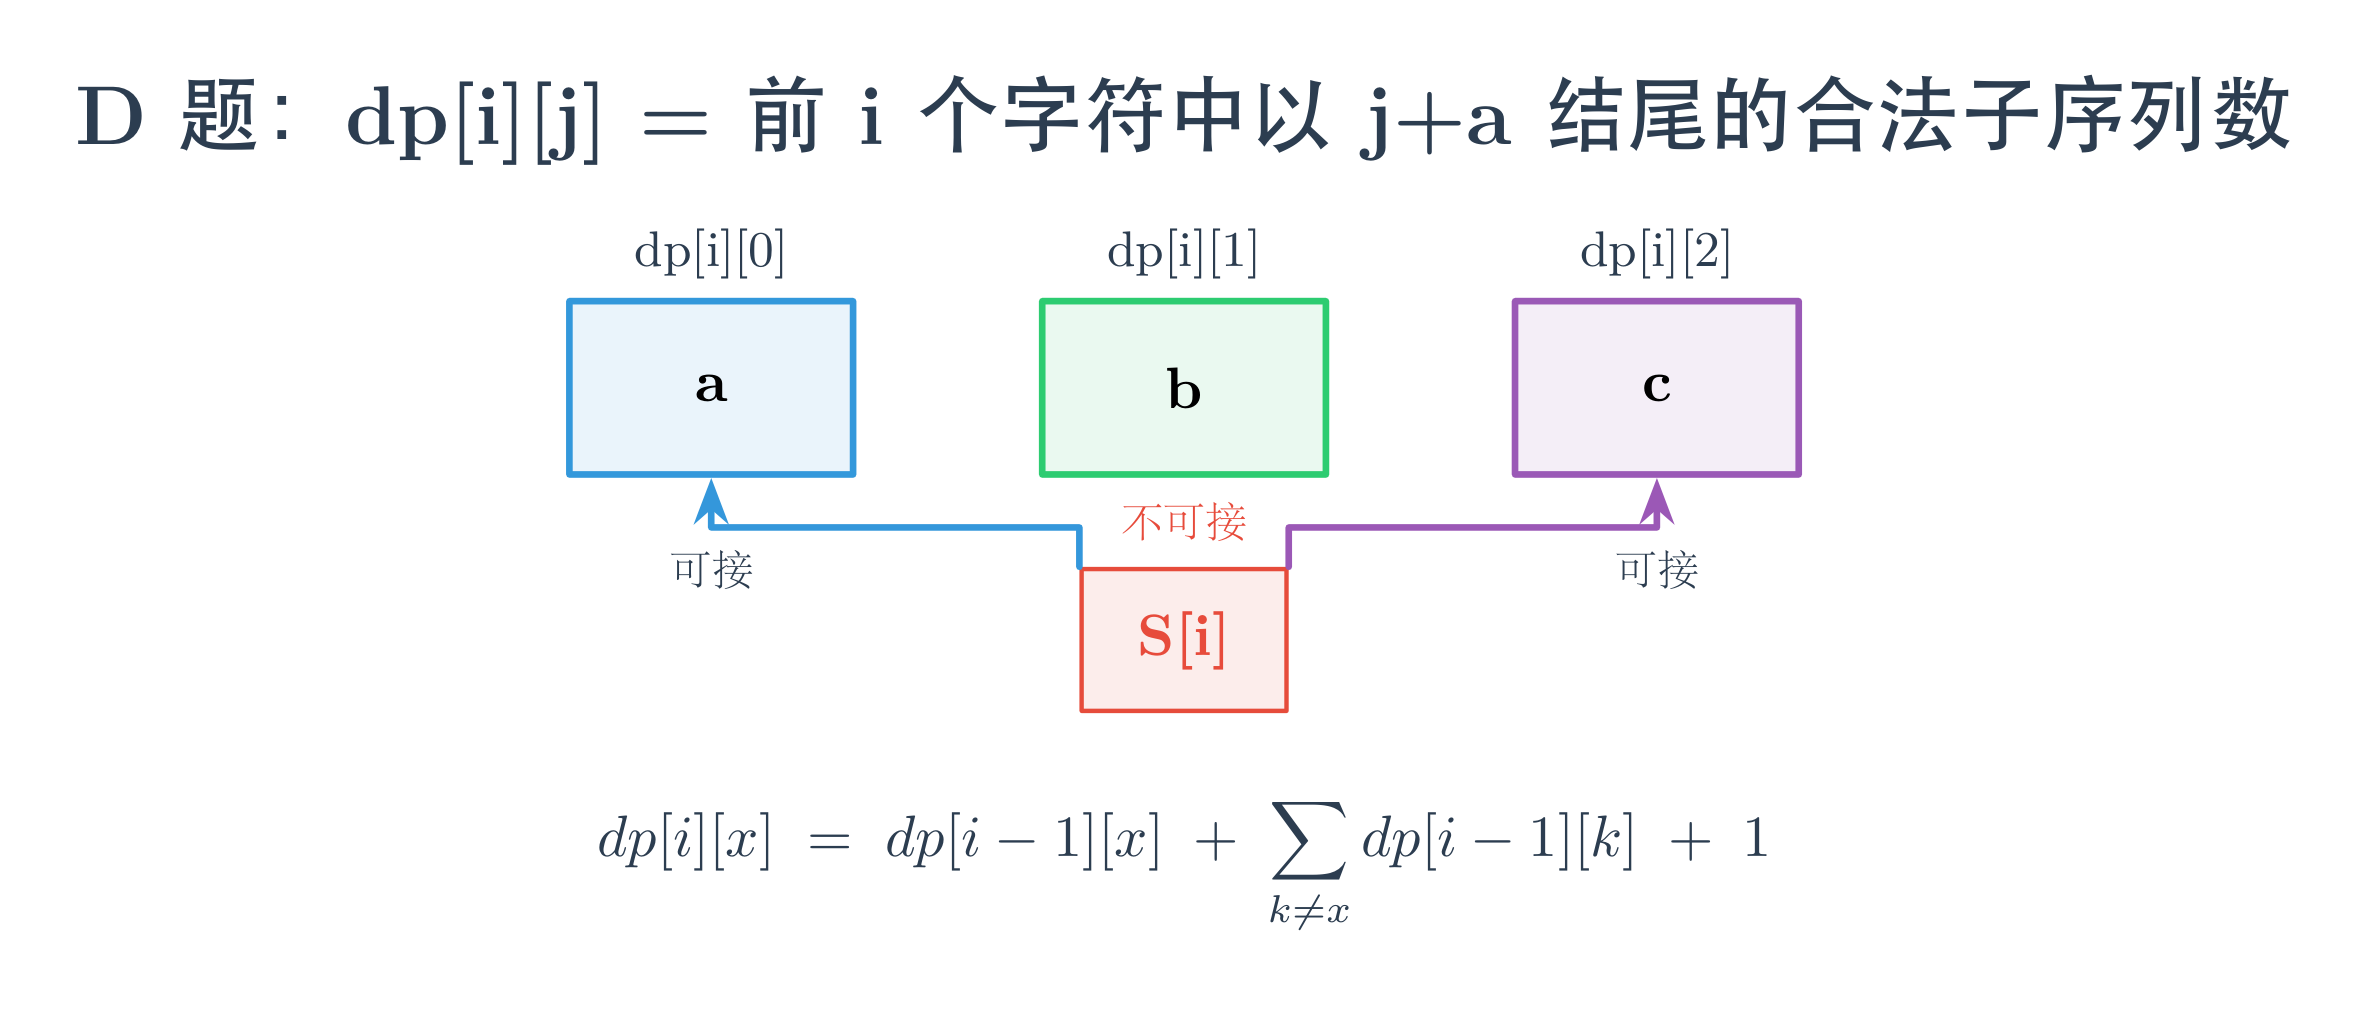
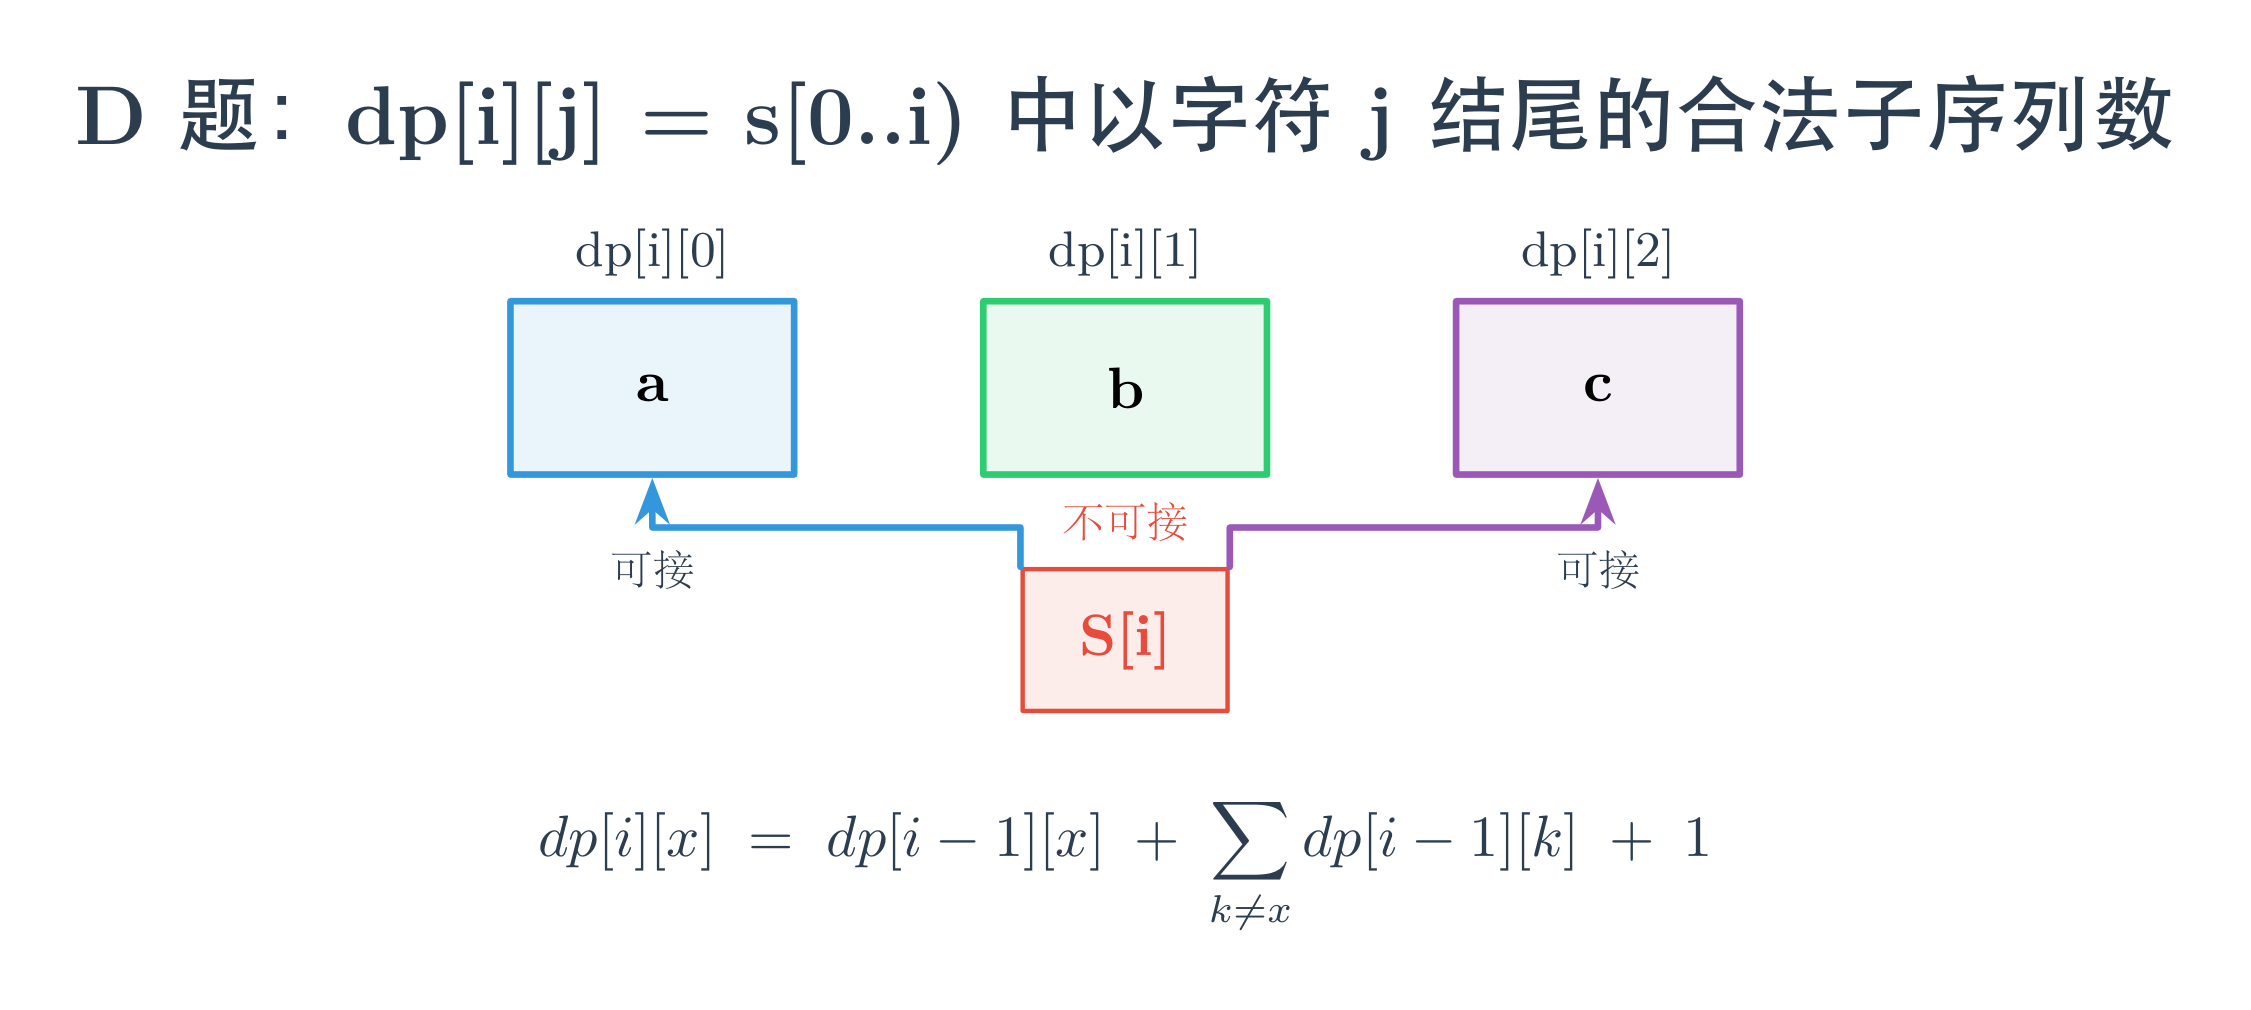
Simplify D diagram state definition using s[0..i) notation

diff --git a/ABC456/article.html b/ABC456/article.html
@@ -92,7 +92,7 @@ hr { border: none; border-top: 1px solid #e0e0e0; margin: 24px 0; }
 <h3>关键观察</h3>
 <p>子序列不要求连续，这意味着当前字符可以接在<span style="color:#0969da">前面任意一个合法子序列</span>的后面，只要最后一个字符不同。</p>
 <p>此时，我们不能再像 C 题那样只关心"上一个位置"，因为子序列的"上一个字符"可能出现在很前面。真正需要记住的信息是：<span style="color:#e74c3c">这个子序列以什么字符结尾</span>。</p>
-<p>因此定义二维状态：dp[i][j] 表示前 i 个字符中，以字符 j（0 代表 a，1 代表 b，2 代表 c）结尾的合法子序列个数。</p>
+<p>因此定义二维状态：dp[i][j] 表示 s[0..i) 中以字符 j（0 代表 a，1 代表 b，2 代表 c）结尾的合法子序列个数。</p>
 <h3>图示</h3>
 <img src="https://cdn.jsdelivr.net/gh/yofn/solution@main/ABC456/figures_sel/d_diagram.png" alt="D题状态转移示意图" style="max-width:100%;display:block;margin:14px auto;border-radius:6px;">
 <h3>代码</h3>

diff --git a/ABC456/figures/d_diagram.tex b/ABC456/figures/d_diagram.tex
@@ -13,7 +13,7 @@
 \begin{tikzpicture}[font=\large, >=Stealth, line cap=round, line join=round]
 
 % Title
-\node[font=\bfseries\Large, text=darktext] at (5.5, 3.0) {D题：dp[i][j] = 前i个字符中以 j+a 结尾的合法子序列数};
+\node[font=\bfseries\Large, text=darktext] at (5.5, 3.0) {D题：dp[i][j] = s[0..i) 中以字符 j 结尾的合法子序列数};
 
 % Three buckets with labels on top
 \node[font=\small, text=darktext] at (2.5, 2.15) {dp[i][0]};

diff --git a/ABC456/article.md b/ABC456/article.md
@@ -68,7 +68,7 @@ int main(){
 
 此时，我们不能再像 C 题那样只关心"上一个位置"，因为子序列的"上一个字符"可能出现在很前面。真正需要记住的信息是：<span style="color:#e74c3c">这个子序列以什么字符结尾</span>。
 
-因此定义二维状态：dp[i][j] 表示前 i 个字符中，以字符 j（0 代表 a，1 代表 b，2 代表 c）结尾的合法子序列个数。
+因此定义二维状态：dp[i][j] 表示 s[0..i) 中以字符 j（0 代表 a，1 代表 b，2 代表 c）结尾的合法子序列个数。
 
 ### 图示
 
